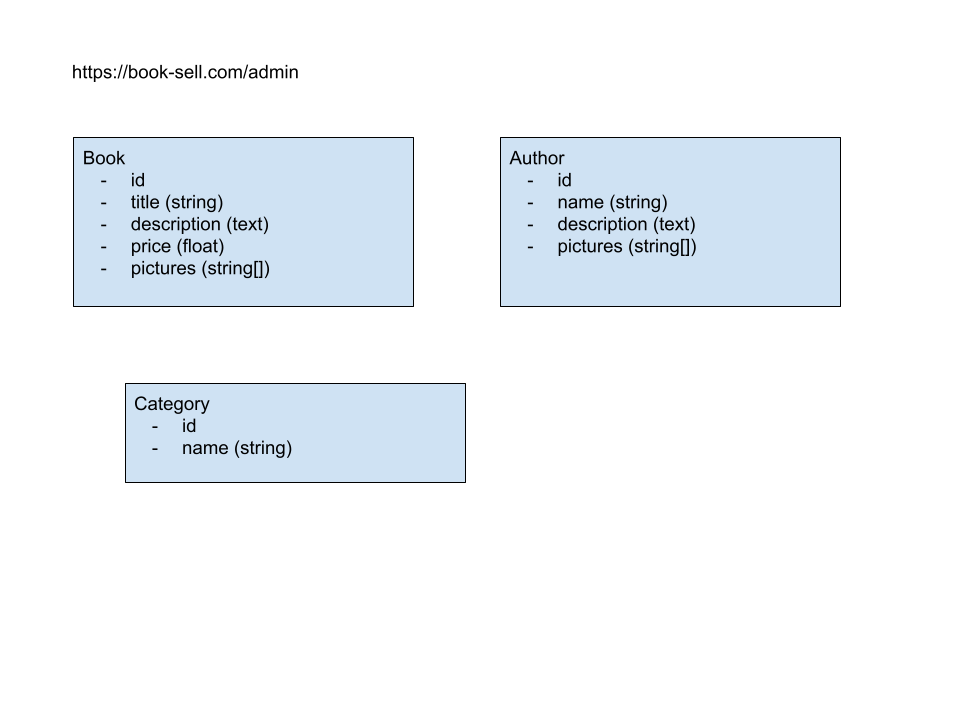
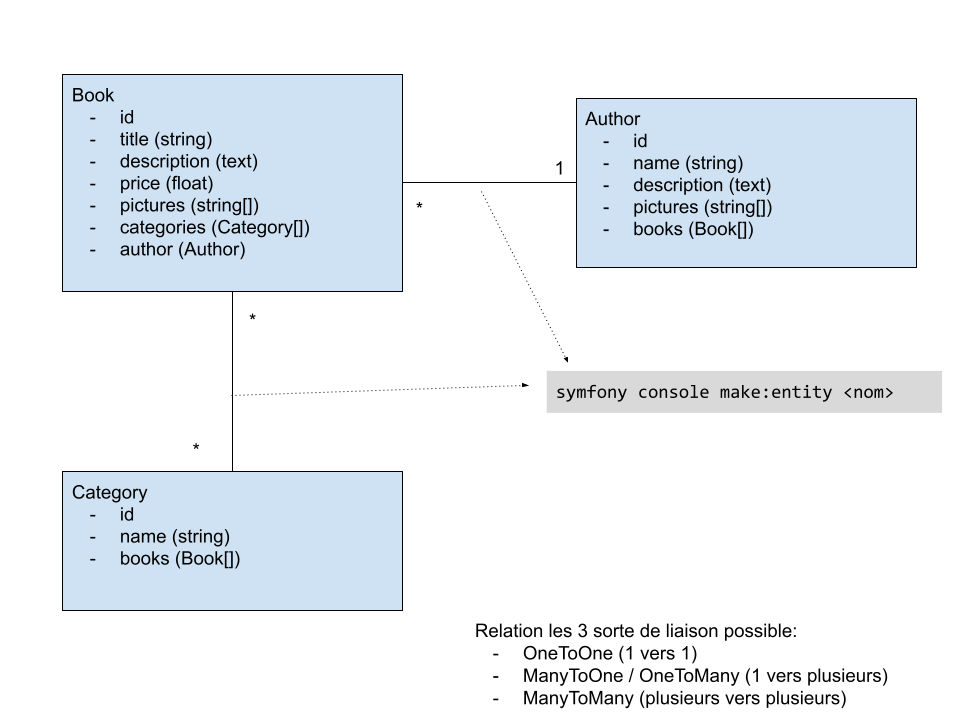
Ajout de l'exo des relations

diff --git a/exos/form.md b/exos/form.md
@@ -1,4 +1,4 @@
-# Exercice Formulaire
+# Exercice Formulaire & Relation
 
 ## Petit Rappel
 
@@ -26,3 +26,10 @@ d'une catégorie, plus un bouton submit.
 
 Dans le controller `CategoryAdminController`, modifier les méthodes
 `create` et `update` pour utiliser le formulaire.
+
+## Relation entre les livres et la catégories
+
+En vous aidant du [schèma suivant](https://github.com/Djeg/formation-symfony/blob/session/21-03-22.25-03-22/doc/UML%20Projet%20Book%20Sell.png). Ajouter une relation entre les livres et les catégories.
+
+Dans le formulaire `BookType` ajouter un champs de type `EntityType` afin de pouvoir
+séléctionner plusieurs catégories.

diff --git a/README.md b/README.md
@@ -31,4 +31,4 @@ d'explorer le projet.
 2. [Les entitès](./exos/entities.md)
 3. [La vue (Twig)](./exos/twig.md)
 4. [Faire un CRUD](./exos/crud.md)
-5. [Les formulaires](./exos/form.md)
+5. [Les formulaires & Relations](./exos/form.md)
